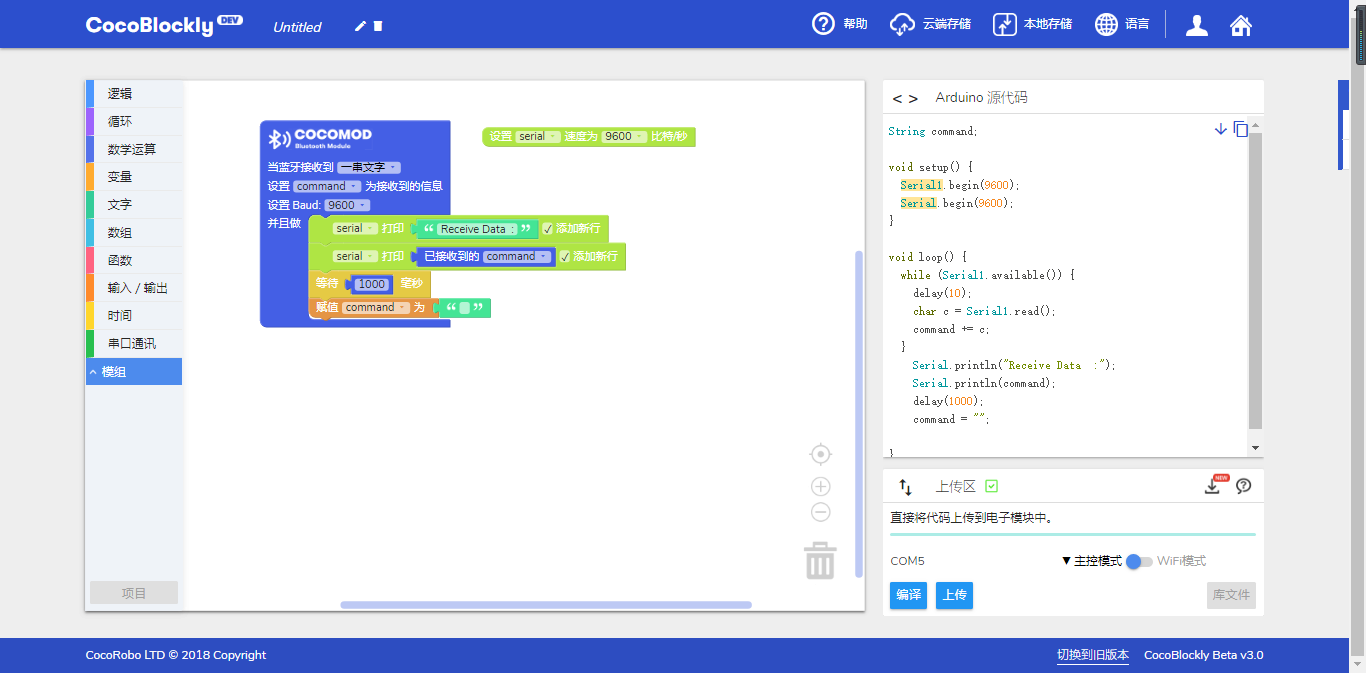
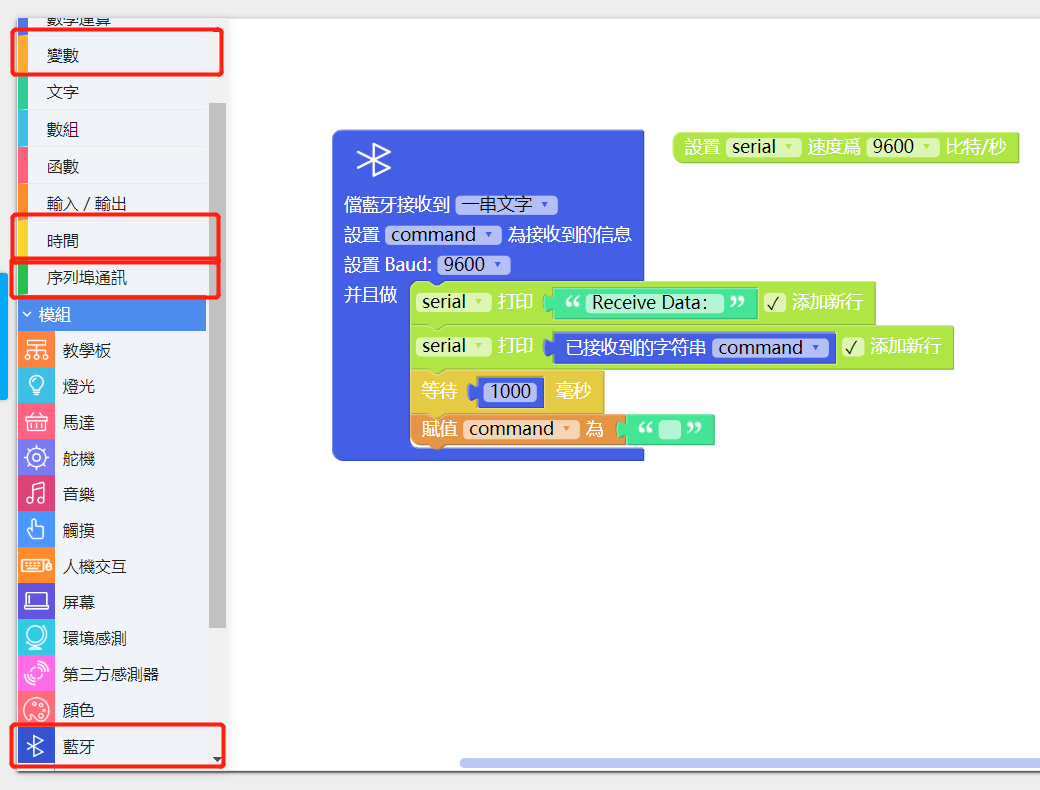
Update bluetooth.md
-更新图片
-更新模组使用说明
-更新示例App介绍
-删除蓝牙进阶使用部分（即蓝牙对蓝牙，会出现数据传输延时）

diff --git a/cocomod/bluetooth.md b/cocomod/bluetooth.md
@@ -3,7 +3,7 @@
 ---
 
 ## 模組簡介
- 藍牙模組是用於能與藍牙配對的設備，遠端控制輸出。藍牙配對前狀態燈會以較快的頻率閃爍，當成功連接後狀態燈以較慢頻率閃爍
+ 藍牙通訊模組是用於能與藍牙配對的設備，遠端控制輸出。藍牙配對前狀態燈會以較快的頻率閃爍，當成功連接後狀態燈以較慢頻率閃爍
 
 
 ## 模組主要部件
@@ -30,7 +30,7 @@
 	<tr>
 		<td>3.</td>
 		<td>AT模式按鈕</td>
-		<td>在通電前長按此按鈕，可前往本章後面部分的<a href="http://help.cocorobo.hk/#/cocomod/bluetooth?id=藍牙改名：at模式">進入AT模式</a>瞭解，以進行「修改藍牙模組廣播名稱」、「配對密碼」、「獲取藍牙物理地址」等操作</td>
+		<td>在通電前長按此按鈕，可前往本章後面部分的<a href="http://help.cocorobo.hk/#/cocomod/bluetooth?id=藍牙改名：at模式">進入AT模式</a>瞭解，以進行「修改藍牙通訊模組廣播名稱」、「配對密碼」、「獲取藍牙物理地址」等操作</td>
 	</tr>
 </table>
 
@@ -38,8 +38,8 @@
 
 | 接口位置 | 接口描述           |
 | -------- | ------------------ |
-| (數位訊號) D0: 主機板 Rx    | Tx: 藍牙模組端 (UART 通訊)       |
-| (數位訊號) D1: 主機板 Tx   | Rx: 藍牙模組端 (UART 通訊) |
+| (數位訊號) D0: 主機板 Rx    | Tx: 藍牙通訊模組端 (UART 通訊)       |
+| (數位訊號) D1: 主機板 Tx   | Rx: 藍牙通訊模組端 (UART 通訊) |
 
 > 爲了避免不同類型的電子模組在使用時有接口（Pin out）的衝突，請注意前往[此頁面](/cocomod/pinout-map)查看接口示意圖
 
@@ -50,107 +50,73 @@
 1. 藍牙未連接前，狀態燈會快速閃爍，儅成功配對連接後，狀態燈閃爍變慢；
 2. 藍牙出廠設置的命名HC-05，連接pin碼爲「1234」；
 3. 藍牙重置需要先通電，長按重置按鈕5s，直至狀態燈快速閃爍；
-4. 用戶可根據擬藍牙遙控之功用，使用App Inventor來製作遙控App；此外，CocoRobo亦提供下述藍牙遙控實例以供參考；
-5. APP Inventor可定製化，可由用戶自己製作
+4. 用戶可根據擬藍牙遙控之功用，使用App Inventor來製作遙控App，APP Inventor可定製化，可由用戶自己製作App；
+5. 此外，CocoRobo亦提供下述藍牙遙控實例以供參考。
 
-###  MIT - App Inventor - 示例App 
+###  MIT - App Inventor - 示例App
+
+不同功能的藍牙控制是在不同的App上實現的，如：若要使用滑動條來控制模組，需下載對應的 Coco BT Slider。
+請根據您的需要，使用 Android 手機的瀏覽器掃描下表的二維碼下載對應的示例App：
+
 |編號| 二維碼       | App名稱    |   應用介紹   |     使用方法    |
 |---|-------------------------|----------|------------------|------------------|
-|1. | <img src="../media/Coco_BT_Switch.png" width="50"/>     |   Coco BT Switch          |    藍牙控制：按鈕開關   | 使用按鈕，發出單個數值數據 |
-|2. | <img src="../media/Coco_BT_Slider.png" width="50"/>              | Coco BT Slider  |  藍牙控制：滑動條    | 通過滑動條上指針的所處位置，發出單個數值數據（0~100 |
-|3. | <img src="../media/Coco_BT_Motor_Control.png" width="50"/>                 | Coco BT Motor Controller    |  藍牙控制：馬達控制    | 操控兩個馬達的正轉反轉和速度 |
-|4. | <img src="../media/Coco_BT_Servo_Control.png" width="50"/>                  | Coco BT Servo Controller    |  藍牙控制：伺服馬達控制    | 可同時操控 6 個伺服馬達的角度（0~180度） |
-|5. |  <img src="../media/Coco_Robot_Arm.png" width="50"/>               | Coco Robot Arm    |  藍牙控制機械臂        | 在 CocoBlockly 中打開「藍牙」，選擇「藍牙控制機械臂」 | 
-|6. | <img src="../media/Coco_Robot_Car.png" width="50"/>                 | Coco Robot Car    |  藍牙控制小車    | 在 CocoBlockly 中打開「藍牙」，選擇「藍牙控制小車」 |
+|1. | <img src="../media/Coco_BT_Switch.png" width="80"/>     |   Coco BT Switch          |    藍牙控制：按鈕開關   | 使用按鈕，發出單個數值數據 |
+|2. | <img src="../media/Coco_BT_Slider.png" width="80"/>              | Coco BT Slider  |  藍牙控制：滑動條    | 通過滑動條上指針的所處位置，發出單個數值數據（0~100） |
+|3. | <img src="../media/Coco_BT_Motor_Control.png" width="80"/>                 | Coco BT Motor Controller    |  藍牙控制：馬達控制    | 操控兩個馬達的正轉、反轉和速度，發出數據為按鈕上顯示的單個文本或數值 |
+|4. | <img src="../media/Coco_BT_Servo_Control.png" width="80"/>                  | Coco BT Servo Controller    |  藍牙控制：伺服馬達控制    | 可同時操控 6 個伺服馬達的角度（0~180度），發出單個數值數據 |
+|5. |  <img src="../media/Coco_Robot_Arm.png" width="80"/>               | Coco Robot Arm    |  藍牙控制機械臂        | 在 CocoBlockly 中打開「藍牙」，選擇「藍牙控制機械臂」，發出數據為滑動條的單個數值 |
+|6. | <img src="../media/Coco_Robot_Car.png" width="80"/>                 | Coco Robot Car    |  藍牙控制小車    | 在 CocoBlockly 中打開「藍牙」，選擇「藍牙控制小車」，發出數據為按鈕上顯示的單個文本 |
 
 ---
 
 ## 藍牙通訊模組基礎使用
 
-使用 Android 手機 App 來與藍牙模組進行連接，由此來控制主控模組。
+使用 Android 手機 App 來與藍牙通訊模組進行連接，由此來控制主控模組。
 
 ### 藍牙接收 Android App 發送的數據
 
-#### 模組組裝 
+#### 模組組裝
 
-將藍牙模組和主機板模組拼在一起。
+將藍牙通訊模組和主機板模組拼在一起，並讓主機板模組連接好 USB 綫至電腦：
 
-#### 積木編程
-
-<img src="../media/bluetooth_block_send.png" width="500"/> 
+<div style="text-align:center;">
+<img src="../media/bluetooth_main.jpg" width="350"/>
+</div>
 
 #### 連接配置
 
-關於如何讓 Android 收集與藍牙模組配對，請參考下面這個文檔：
+關於如何讓 Android 手機與藍牙通訊模組配對連接，請參考下面這個文檔：
 
 <object width="100%" height="500px" data="../media/移動端(Android)配對藍牙通訊模組教程.pdf" type="application/pdf">
 	<embed src="../media/移動端(Android)配對藍牙通訊模組教程.pdf" type="application/pdf" />
 </object>
 
-配對成功後，便可以打開 Android app 進行連接了：
+配對連接成功後，便可以使用 Android app 控制模組了：
 
-<img style="border-radius:5px;border: 1px #ddd solid; " align="center" src="../media/bluetooth_app.jpg" width="30%"/> 
+<div style="text-align:center;">
+<img style="border-radius:5px;border: 1px #ddd solid; " align="center" src="../media/bluetooth_app.png" width="30%"/>
+</div>
+
+#### 積木編程
+
+<div style="text-align:center;">
+<img src="../media/bluetooth_block_send.png" width=100%/>
+</div>
+
 
 #### 最終效果
 
-<img src="../media/bluetooth_result_send.jpg" width="500"/> 
-
-#### 參考鏈接
-
-to be edited.
+<div style="text-align:center;">
+<img src="../media/bluetooth_result_send.png" width=100%/>
+</div>
 
 ---
 
-### 學習如何使用 MIT AppInventor 製作 Android App
+### 學習如何使用 MIT App Inventor 製作 Android App
 
-完善中。
+用戶可根據擬藍牙遙控之功用，使用App Inventor來製作遙控App
 
 #### 參考鏈接
 
 * https://web.17coding.net/
 * https://www.jianshu.com/p/9c462581bbcf
-
----
-
-## 藍牙通訊模組進階使用
-
-本小節介紹如何進行藍牙与蓝牙模組之間的數據傳輸：
-
-* AT 模式對應 Arduino 程式下載：
-	* https://cocorobo.hk/downloads/Bluetooth_AT_Mode.ino
-
-<object width="100%" height="800px" data="../media/CocoRobo藍牙模組間配對流程.pdf" type="application/pdf">
-	<embed src="../media/CocoRobo藍牙模組間配對流程.pdf" type="application/pdf" />
-</object>
-
-<b>視頻：「如何進入藍牙模組的 AT 模式」</b>
-<video width="100%" height="480px" controls>
-  <source src="media/entering_at-mode.mp4" type="video/mp4">
-  Your browser does not support the video tag.
-</video>
-
-<b>視頻：「藍牙模組綁定完成，再次通電後連接的效果」</b>
-<video width="100%" height="480px" controls>
-  <source src="media/bluetooth_comm-pairing.mp4" type="video/mp4">
-  Your browser does not support the video tag.
-</video>
-
-#### 模組組裝 
-
-to be edited.
-
-#### 積木編程
-
-藍牙模組1
-
-<img src="../media/bluetooth2BT_block_BT1.jpg" width="600"/> 
-
-藍牙模組2
-
-<img src="../media/bluetooth2BT_block_BT2.jpg" width="600"/> 
-
-#### 最終效果
-
-to be edited.
-
-#### 參考鏈接

diff --git a/cocomod/color-analyzer.md b/cocomod/color-analyzer.md
@@ -1,4 +1,4 @@
-# 顏色分析模組
+# 使用顏色分析模組
 ---
 
 ## 模組簡介
